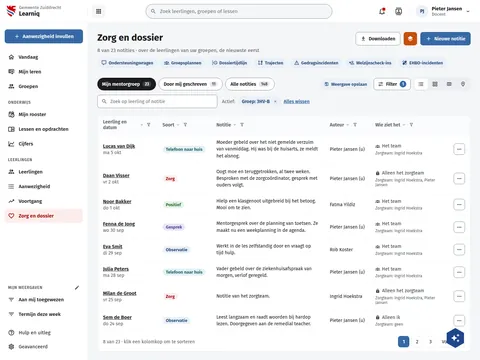
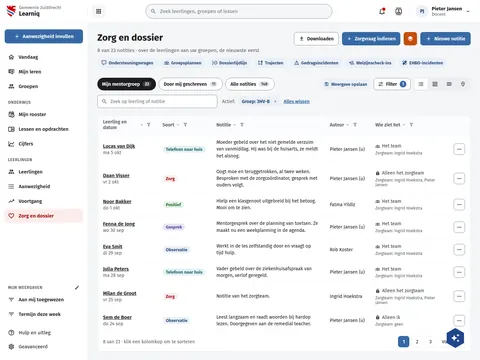
feat(screens): draw the POK waiting state and the support request action for learniq
esdoornveen/Documenten: the praktijkovereenkomst reads "Wacht op leerbedrijf" while the training company has not signed; the onderwijsovereenkomst keeps "Getekend".
learniq/LqDossier: "Zorgvraag indienen" raises a support request from the dossier, with or without a learning plan.

Assisted-by: ClaudeCode:claude-fable-5-1

Changed region(s): [[0.625, 0.0917, 0.8438, 0.1528]]

diff --git a/preview/screens/boards/LqDossier.html b/preview/screens/boards/LqDossier.html
@@ -155,7 +155,7 @@ a{color:var(--sc-primary, #3669a5)}a:hover{color:var(--sc-primary-deep, #234a78)
         <div style="display: flex; flex-wrap: wrap; justify-content: space-between; align-items: flex-start; gap: 12px 24px">
           <h1 style="flex: 1 1 320px; min-width: 0; margin: 0; font-size: 28px; font-weight: 700; line-height: 1.2">Zorg en dossier</h1>
           <div style="flex: none; display: flex; flex-wrap: wrap; gap: 10px">
-            <button type="button" style="display: flex; align-items: center; gap: 8px; height: 40px; padding: 0 14px; border: 1px solid var(--sc-work-field, #828a95); border-radius: 8px; background: #ffffff; font: 600 14px var(--sc-font, 'Fira Sans'), sans-serif; color: var(--sc-work-ink, #1b1c1d)"><svg width="16" height="16" viewbox="0 0 24 24" fill="currentColor"><path d="M13,5V11H14.17L12,13.17L9.83,11H11V5H13M15,3H9V9H5L12,16L19,9H15V3M19,18H5V20H19V18Z"></path></svg>Downloaden</button><button type="button" aria-label="buildiq" title="buildiq" style="display: flex; align-items: center; justify-content: center; width: 40px; height: 40px; border: 0; border-radius: 8px; background: var(--sc-buildiq, #c64e0b); color: #ffffff"><svg width="20" height="20" viewbox="0 0 24 24" fill="currentColor"><path d="M12,16L19.36,10.27L21,9L12,2L3,9L4.63,10.27M12,18.54L4.62,12.81L3,14.07L12,21.07L21,14.07L19.37,12.8L12,18.54Z"></path></svg></button><button type="button" style="display: flex; align-items: center; gap: 8px; height: 40px; padding: 0 16px; border: 0; border-radius: 8px; background: var(--sc-primary, #3669a5); color: #ffffff; font: 600 14px var(--sc-font, 'Fira Sans'), sans-serif"><svg width="18" height="18" viewbox="0 0 24 24" fill="currentColor"><path d="M19,13H13V19H11V13H5V11H11V5H13V11H19V13Z"></path></svg>Nieuwe notitie</button>
+            <button type="button" style="display: flex; align-items: center; gap: 8px; height: 40px; padding: 0 14px; border: 1px solid var(--sc-work-field, #828a95); border-radius: 8px; background: #ffffff; font: 600 14px var(--sc-font, 'Fira Sans'), sans-serif; color: var(--sc-work-ink, #1b1c1d)"><svg width="16" height="16" viewbox="0 0 24 24" fill="currentColor"><path d="M13,5V11H14.17L12,13.17L9.83,11H11V5H13M15,3H9V9H5L12,16L19,9H15V3M19,18H5V20H19V18Z"></path></svg>Downloaden</button><a href="LqZoOndersteuning.html" style="display: flex; align-items: center; gap: 8px; height: 40px; padding: 0 14px; border: 0; border-radius: 8px; background: var(--sc-primary, #3669a5); color: #ffffff; font: 600 14px var(--sc-font, 'Fira Sans'), sans-serif; text-decoration: none"><svg width="16" height="16" viewbox="0 0 24 24" fill="currentColor" aria-hidden="true"><path d="M19,13H13V19H11V13H5V11H11V5H13V11H19V13Z"></path></svg>Zorgvraag indienen</a><button type="button" aria-label="buildiq" title="buildiq" style="display: flex; align-items: center; justify-content: center; width: 40px; height: 40px; border: 0; border-radius: 8px; background: var(--sc-buildiq, #c64e0b); color: #ffffff"><svg width="20" height="20" viewbox="0 0 24 24" fill="currentColor"><path d="M12,16L19.36,10.27L21,9L12,2L3,9L4.63,10.27M12,18.54L4.62,12.81L3,14.07L12,21.07L21,14.07L19.37,12.8L12,18.54Z"></path></svg></button><button type="button" style="display: flex; align-items: center; gap: 8px; height: 40px; padding: 0 16px; border: 0; border-radius: 8px; background: var(--sc-primary, #3669a5); color: #ffffff; font: 600 14px var(--sc-font, 'Fira Sans'), sans-serif"><svg width="18" height="18" viewbox="0 0 24 24" fill="currentColor"><path d="M19,13H13V19H11V13H5V11H11V5H13V11H19V13Z"></path></svg>Nieuwe notitie</button>
           </div>
         </div>
         <div style="display: flex; flex-direction: column; gap: 6px; min-width: 0">

diff --git a/screens-src/zuiddrecht/LqDossier.dc.html b/screens-src/zuiddrecht/LqDossier.dc.html
@@ -24,7 +24,7 @@ a{color:#3669a5}a:hover{color:#234a78}
         <div style="display: flex; flex-wrap: wrap; justify-content: space-between; align-items: flex-start; gap: 12px 24px">
           <h1 style="flex: 1 1 320px; min-width: 0; margin: 0; font-size: 28px; font-weight: 700; line-height: 1.2">Zorg en dossier</h1>
           <div style="flex: none; display: flex; flex-wrap: wrap; gap: 10px">
-            <button type="button" style="display: flex; align-items: center; gap: 8px; height: 40px; padding: 0 14px; border: 1px solid #828a95; border-radius: 8px; background: #ffffff; font: 600 14px 'Fira Sans', sans-serif; color: #1b1c1d"><svg width="16" height="16" viewBox="0 0 24 24" fill="currentColor"><path d="M13,5V11H14.17L12,13.17L9.83,11H11V5H13M15,3H9V9H5L12,16L19,9H15V3M19,18H5V20H19V18Z"></path></svg>Downloaden</button><button type="button" aria-label="buildiq" title="buildiq" style="display: flex; align-items: center; justify-content: center; width: 40px; height: 40px; border: 0; border-radius: 8px; background: #c64e0b; color: #ffffff"><svg width="20" height="20" viewBox="0 0 24 24" fill="currentColor"><path d="M12,16L19.36,10.27L21,9L12,2L3,9L4.63,10.27M12,18.54L4.62,12.81L3,14.07L12,21.07L21,14.07L19.37,12.8L12,18.54Z"></path></svg></button><button type="button" style="display: flex; align-items: center; gap: 8px; height: 40px; padding: 0 16px; border: 0; border-radius: 8px; background: #3669a5; color: #ffffff; font: 600 14px 'Fira Sans', sans-serif"><svg width="18" height="18" viewBox="0 0 24 24" fill="currentColor"><path d="M19,13H13V19H11V13H5V11H11V5H13V11H19V13Z"></path></svg>Nieuwe notitie</button>
+            <button type="button" style="display: flex; align-items: center; gap: 8px; height: 40px; padding: 0 14px; border: 1px solid #828a95; border-radius: 8px; background: #ffffff; font: 600 14px 'Fira Sans', sans-serif; color: #1b1c1d"><svg width="16" height="16" viewBox="0 0 24 24" fill="currentColor"><path d="M13,5V11H14.17L12,13.17L9.83,11H11V5H13M15,3H9V9H5L12,16L19,9H15V3M19,18H5V20H19V18Z"></path></svg>Downloaden</button><a href="LqZoOndersteuning.dc.html" style="display: flex; align-items: center; gap: 8px; height: 40px; padding: 0 14px; border: 0; border-radius: 8px; background: #3669a5; color: #ffffff; font: 600 14px 'Fira Sans', sans-serif; text-decoration: none"><svg width="16" height="16" viewBox="0 0 24 24" fill="currentColor" aria-hidden="true"><path d="M19,13H13V19H11V13H5V11H11V5H13V11H19V13Z"></path></svg>Zorgvraag indienen</a><button type="button" aria-label="buildiq" title="buildiq" style="display: flex; align-items: center; justify-content: center; width: 40px; height: 40px; border: 0; border-radius: 8px; background: #c64e0b; color: #ffffff"><svg width="20" height="20" viewBox="0 0 24 24" fill="currentColor"><path d="M12,16L19.36,10.27L21,9L12,2L3,9L4.63,10.27M12,18.54L4.62,12.81L3,14.07L12,21.07L21,14.07L19.37,12.8L12,18.54Z"></path></svg></button><button type="button" style="display: flex; align-items: center; gap: 8px; height: 40px; padding: 0 16px; border: 0; border-radius: 8px; background: #3669a5; color: #ffffff; font: 600 14px 'Fira Sans', sans-serif"><svg width="18" height="18" viewBox="0 0 24 24" fill="currentColor"><path d="M19,13H13V19H11V13H5V11H11V5H13V11H19V13Z"></path></svg>Nieuwe notitie</button>
           </div>
         </div>
         <div style="display: flex; flex-direction: column; gap: 6px; min-width: 0">

diff --git a/preview/screens/boards/esdoornveen-Documenten.html b/preview/screens/boards/esdoornveen-Documenten.html
@@ -157,9 +157,9 @@ a{color:#5b2e91}a:hover{color:#43206e}
                 <svg width="28" height="28" viewbox="0 0 24 24" fill="none" stroke="#43206e" stroke-width="1.7" stroke-linecap="round" stroke-linejoin="round" style="flex: none"><path d="M6 3h9l4 4v14H6zM14 3v5h5M9 13h7M9 17h5"></path></svg>
                 <span style="flex: 1 1 280px; min-width: 0; display: flex; flex-direction: column; gap: 3px">
                   <span style="display: flex; flex-wrap: wrap; align-items: center; gap: 6px 10px"><strong style="font-size: 18px; font-weight: 600">Praktijkovereenkomst BPV, Bakker Techniek BV</strong></span>
-                  <span style="font-size: 15px; color: #4a4a4a">PDF · getekend door jou, Petra Bakker en Ruud Hermans op 27 augustus 2026</span>
+                  <span style="font-size: 15px; color: #4a4a4a">PDF · getekend door jou en Ruud Hermans op 27 augustus 2026 · Petra Bakker (Bakker Techniek BV) heeft nog niet getekend</span>
                 </span>
-                <span style="padding: 3px 11px; border-radius: 14px; font-size: 14px; font-weight: 600; white-space: nowrap; background: #e7f3ea; color: #1e6b2a">Getekend</span>
+                <span style="padding: 3px 11px; border-radius: 14px; font-size: 14px; font-weight: 600; white-space: nowrap; background: #fff4e0; color: #8a4b00">Wacht op leerbedrijf</span>
                 <a href="#" style="display: inline-flex; align-items: center; gap: 8px; height: 44px; box-sizing: border-box; padding: 0 14px; border: 2px solid #5b2e91; border-radius: 4px; font-weight: 600; text-decoration: none">
                   <svg width="18" height="18" viewbox="0 0 24 24" fill="none" stroke="currentColor" stroke-width="2.2" stroke-linecap="round"><path d="M12 4v11M7 10l5 5 5-5M5 20h14"></path></svg>Downloaden<span style="position: absolute; width: 1px; height: 1px; overflow: hidden; clip: rect(0 0 0 0)"> Praktijkovereenkomst BPV, Bakker Techniek BV</span>
                 </a>

diff --git a/screens-src/esdoornveen/Documenten.dc.html b/screens-src/esdoornveen/Documenten.dc.html
@@ -65,11 +65,12 @@ class Component extends DCLogic {
   renderVals() {
     const pill = (bg, fg) => 'padding: 3px 11px; border-radius: 14px; font-size: 14px; font-weight: 600; white-space: nowrap; background: ' + bg + '; color: ' + fg;
     const ok = pill('#e7f3ea', '#1e6b2a');
+    const wait = pill('#fff4e0', '#8a4b00');
     const row = (first) => 'display: flex; flex-wrap: wrap; gap: 12px 18px; align-items: center; padding: 16px 20px;' + (first ? '' : ' border-top: 1px solid #d3d8df;');
     const mk = (docs) => docs.map((d, i) => ({ code: '', status: '', pill: '', ...d, hasCode: !!d.code, hasPill: !!d.status, row: row(i === 0) }));
     const groups = [
       { title: 'Overeenkomsten', docs: mk([
-        { name: 'Praktijkovereenkomst BPV, Bakker Techniek BV', meta: 'PDF · getekend door jou, Petra Bakker en Ruud Hermans op 27 augustus 2026', status: 'Getekend', pill: ok },
+        { name: 'Praktijkovereenkomst BPV, Bakker Techniek BV', meta: 'PDF · getekend door jou en Ruud Hermans op 27 augustus 2026 · Petra Bakker (Bakker Techniek BV) heeft nog niet getekend', status: 'Wacht op leerbedrijf', pill: wait },
         { name: 'Onderwijsovereenkomst Mechatronica niveau 4', meta: 'PDF · 28 augustus 2025', status: 'Getekend', pill: ok }
       ]) },
       { title: 'Resultaten', docs: mk([
